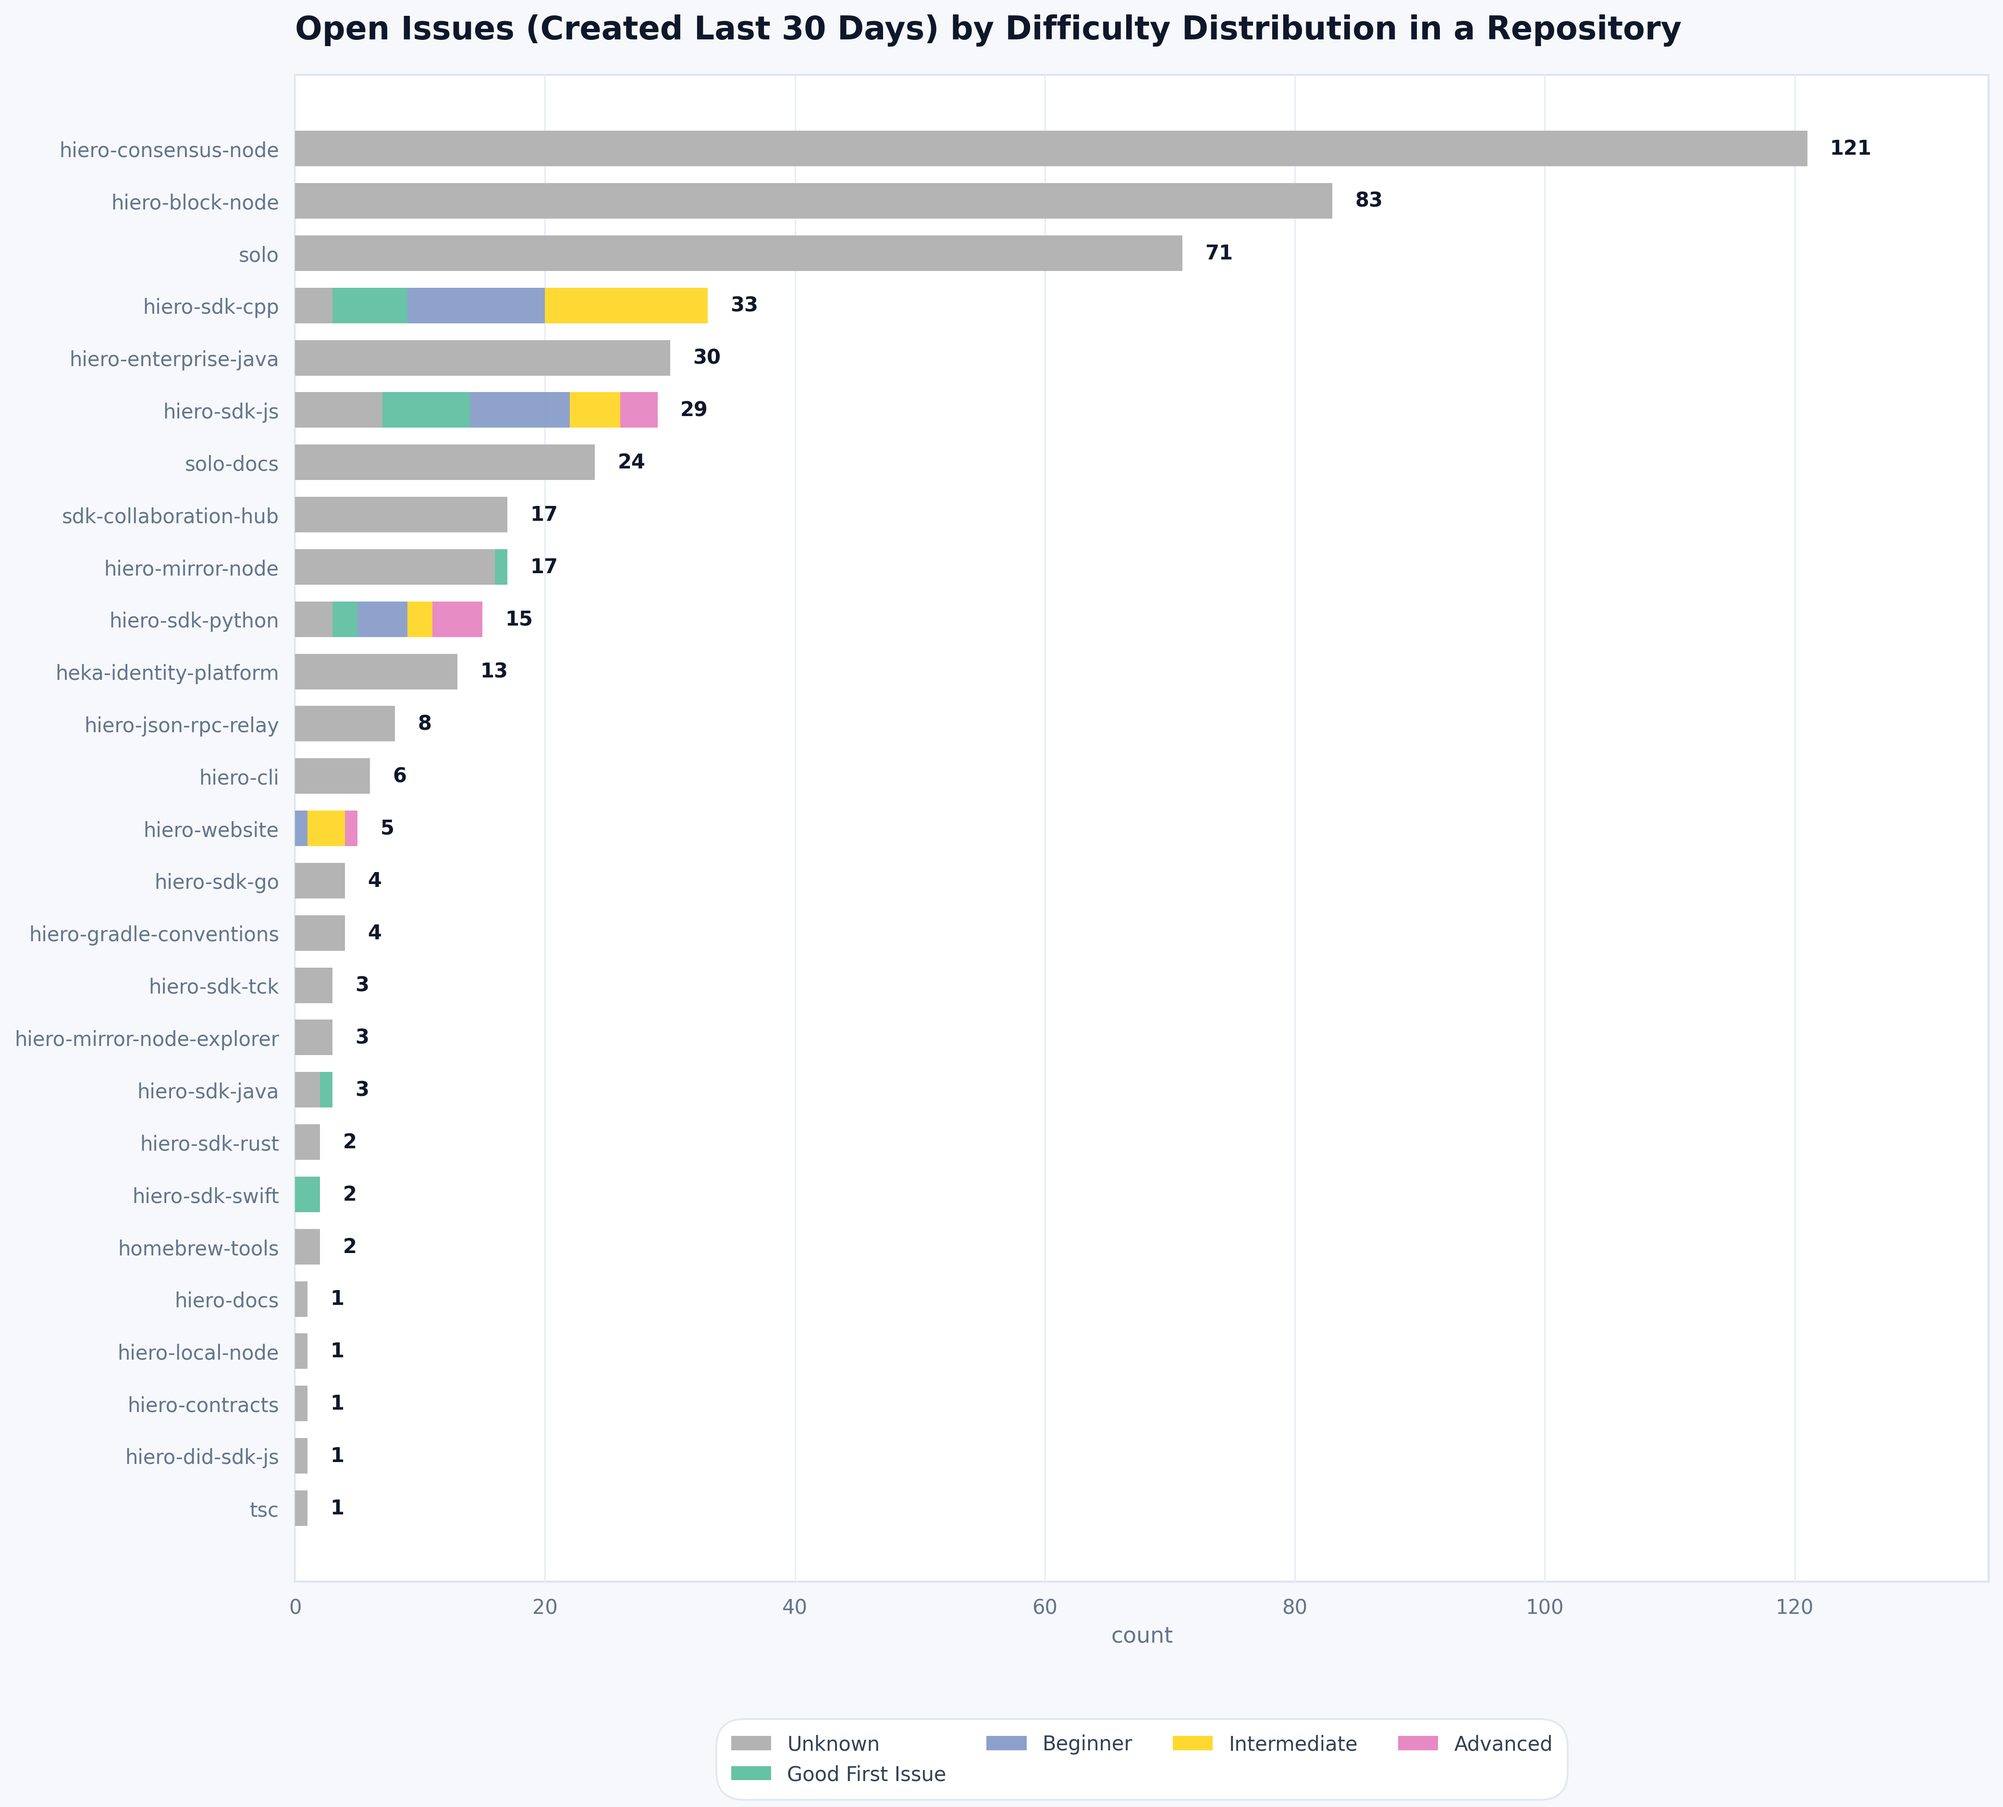
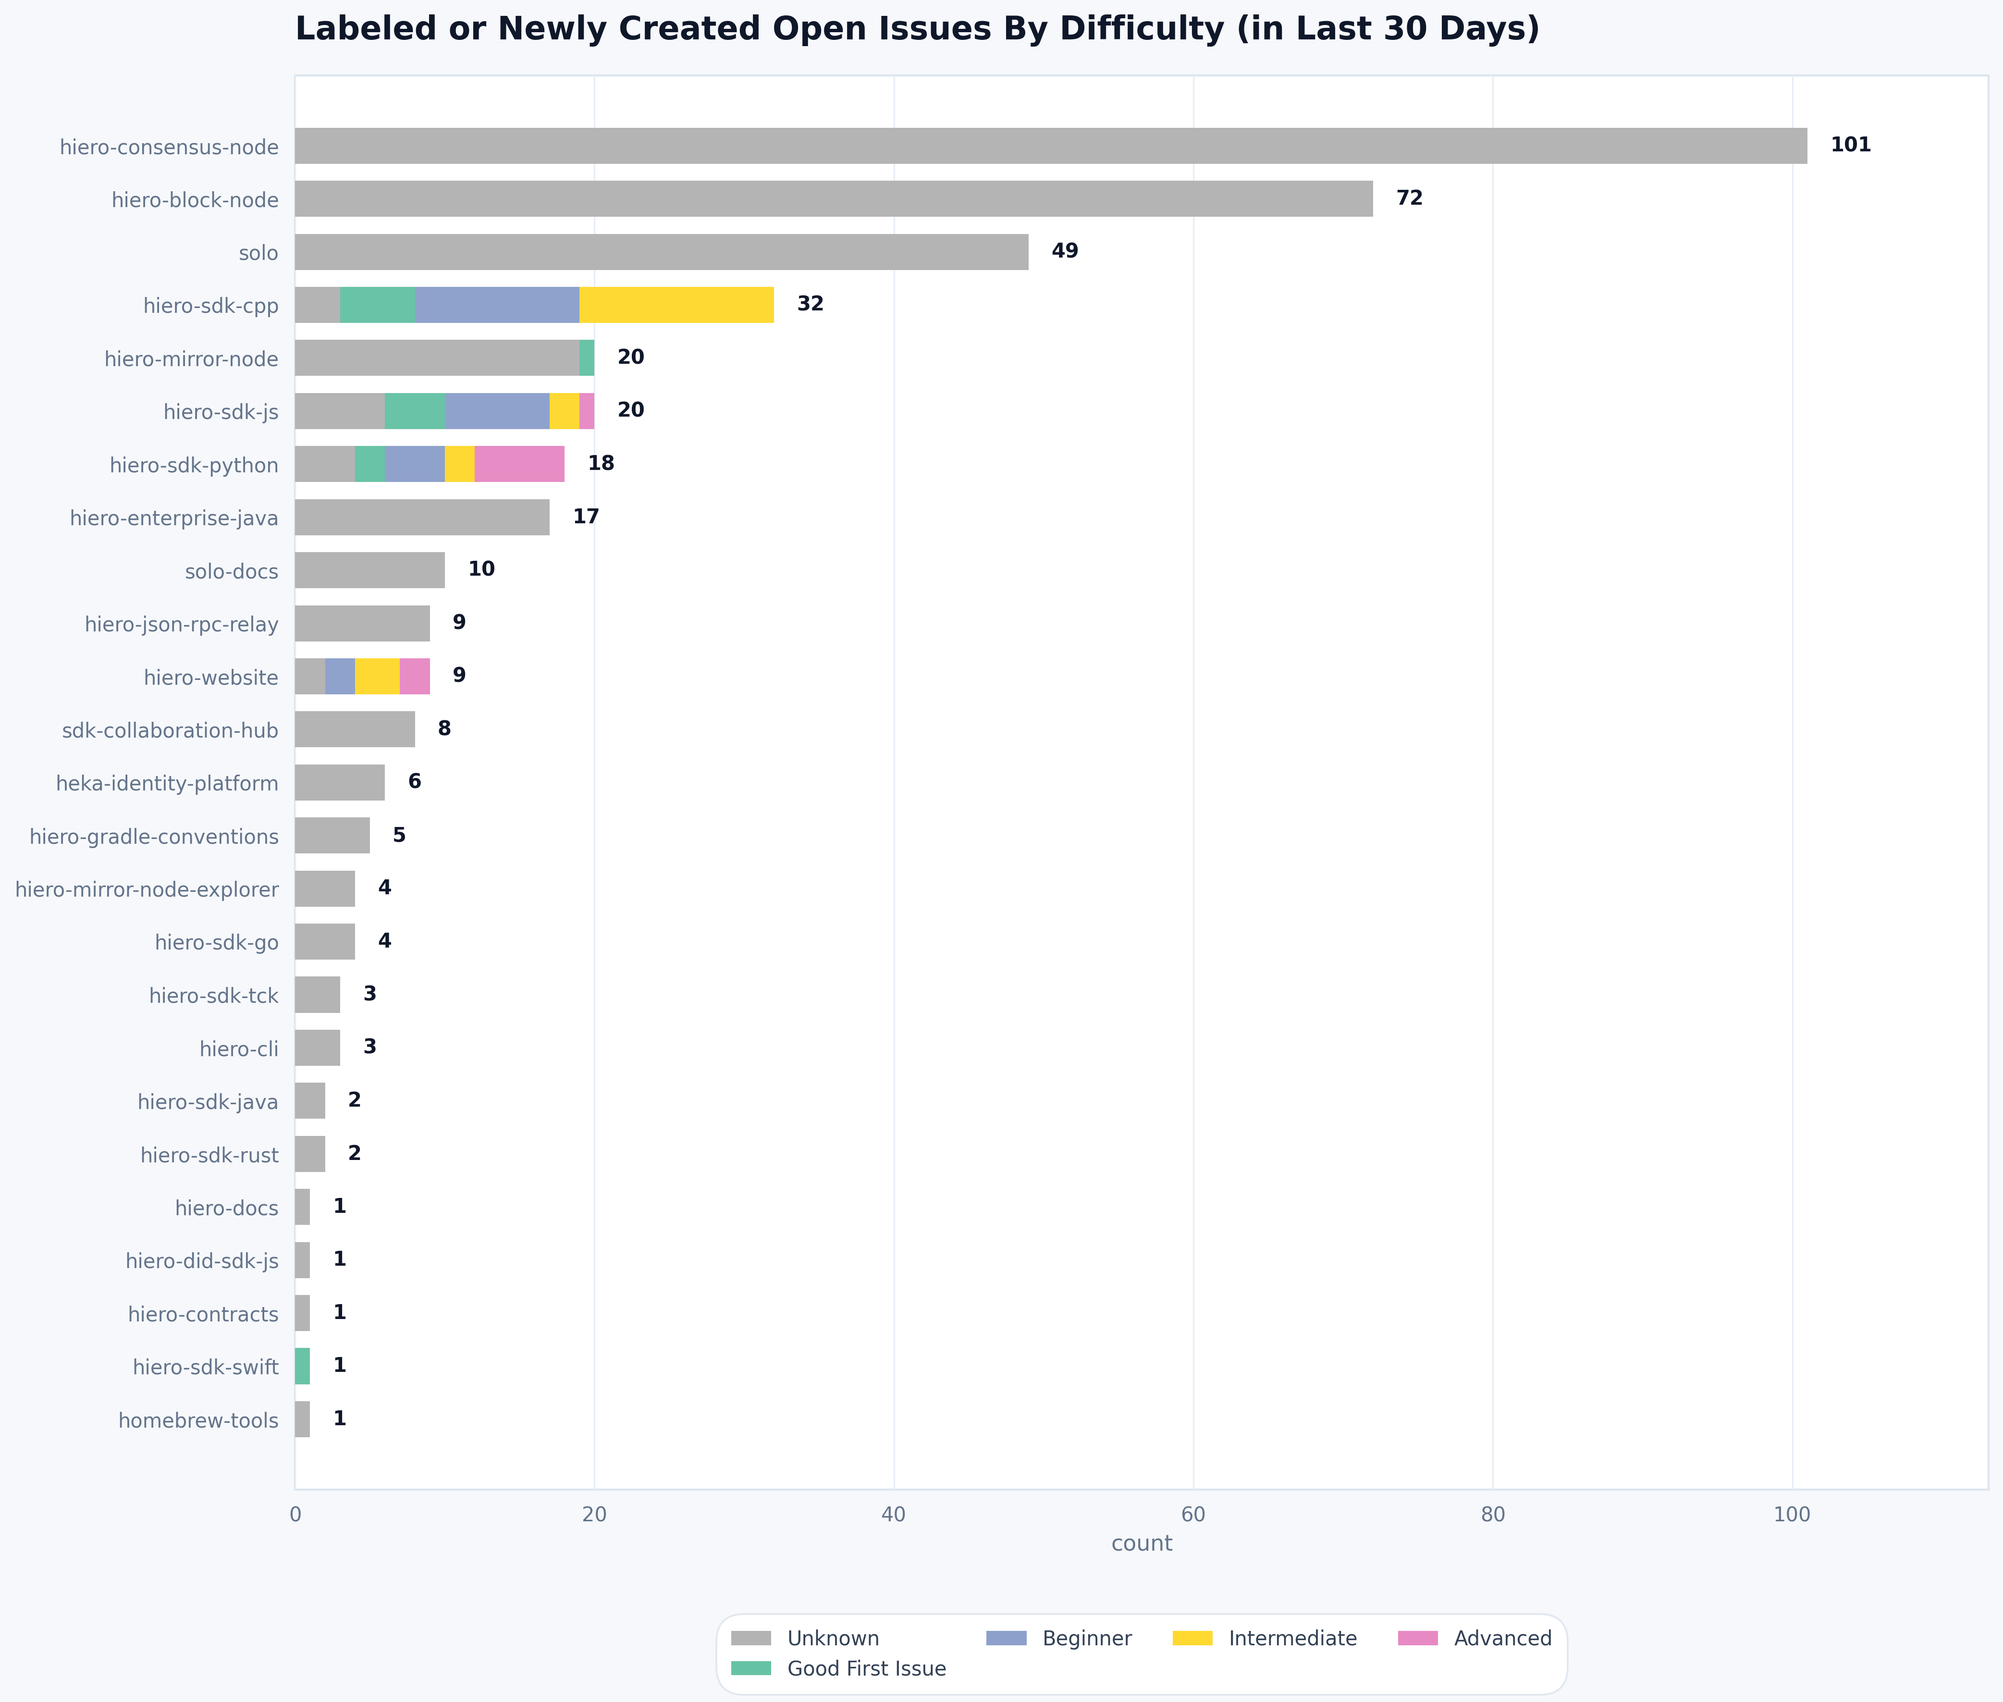
fix: unknown parsing in difficulty runner

Changed region(s): [[0.0, 0.0621, 0.9355, 0.8385], [0.1559, 0.0, 0.8419, 0.0311], [0.3742, 0.9627, 0.4677, 0.9938]]

diff --git a/src/hiero_analytics/run_difficulty_org_for_repo.py b/src/hiero_analytics/run_difficulty_org_for_repo.py
@@ -128,6 +128,31 @@ def _issues_labeled_since(
     return labeled
 
 
+def _issues_unlabeled_created_since(
+    issues: list[IssueRecord],
+    cutoff: datetime,
+    difficulty_specs: tuple[LabelSpec, ...],
+) -> set[tuple[str, int]]:
+    """Return (repo, number) pairs for issues created since cutoff lacking a difficulty label.
+
+    These form the "Unknown" bucket.  Unlike labeled issues, an untriaged
+    issue has no ``labeled`` event to anchor to, so the bucket is anchored to
+    issue *creation* date instead: it captures newly opened issues that have
+    not yet been assigned a difficulty.  This keeps the Unknown category
+    meaningful (and distinct from the labeled buckets, which are anchored to
+    label-application date) rather than collapsing it to zero.
+    """
+    unknown: set[tuple[str, int]] = set()
+    for issue in issues:
+        if issue.created_at < cutoff:
+            continue
+        if any(spec.matches(set(issue.labels)) for spec in difficulty_specs):
+            continue
+        unknown.add((issue.repo, issue.number))
+
+    return unknown
+
+
 def main() -> None:
     """Run the difficulty analytics pipeline for the configured organization."""
     org_data_dir, org_charts_dir = ensure_org_dirs(ORG)
@@ -160,8 +185,20 @@ def main() -> None:
         DIFFICULTY_LEVELS,
     )
 
+    # Identify newly created, still-untriaged issues for the Unknown bucket.
+    # Anchored to creation date because an unlabeled issue has no labeling
+    # event to anchor to.  The two sets are disjoint by construction (an issue
+    # either carries an active difficulty label or it does not).
+    unknown_issues = _issues_unlabeled_created_since(
+        issues,
+        cutoff,
+        DIFFICULTY_LEVELS,
+    )
+
+    included_issues = labeled_issues | unknown_issues
+
     issue_keys = pd.MultiIndex.from_arrays([df["repo"], df["number"]])
-    df = df[(df["state"] == "open") & issue_keys.isin(labeled_issues)].copy()
+    df = df[(df["state"] == "open") & issue_keys.isin(included_issues)].copy()
 
     # Remove org prefix from repo name
     df["repo"] = df["repo"].str.split("/").str[-1]
@@ -185,12 +222,14 @@ def main() -> None:
     pie_variants = [
         (
             difficulty_counts,
-            "Open Issues (Labeled Last 30 Days) by Difficulty Distribution (Including Unknown)",
+            "Open Issues by Difficulty Distribution "
+            "(Labeled or Newly Created in Last 30 Days, Including Unknown)",
             "difficulty_distribution_with_unknown_30_days.png",
         ),
         (
             difficulty_counts[difficulty_counts["difficulty"] != UNKNOWN_DIFFICULTY],
-            "Open Issues (Labeled Last 30 Days) by Difficulty Distribution (Excluding Unknown)",
+            "Open Issues by Difficulty Distribution "
+            "(Labeled in Last 30 Days, Excluding Unknown)",
             "difficulty_distribution_without_unknown_30_days.png",
         ),
     ]
@@ -235,7 +274,7 @@ def main() -> None:
         x_col="repo",
         stack_cols=difficulty_cols,
         labels=difficulty_cols,
-        title="Open Issues (Labeled Last 30 Days) by Difficulty Distribution in a Repository",
+        title="Labeled or Newly Created Open Issues By Difficulty (in Last 30 Days)",
         output_path=org_charts_dir / "difficulty_by_repo_30_days.png",
         colors=DIFFICULTY_COLORS,
         rotate_x=45,

diff --git a/tests/test_run_difficulty_org_for_repo.py b/tests/test_run_difficulty_org_for_repo.py
@@ -1,0 +1,77 @@
+"""Tests for difficulty-bucket selection in the org difficulty pipeline.
+
+These guard the regression where the Unknown bucket collapsed to zero: when
+issues were filtered to *only* those labeled within the window, every surviving
+issue carried a difficulty label, so the "with unknown" and "without unknown"
+charts came out identical.  The Unknown bucket is therefore anchored to issue
+*creation* date instead of label-application date.
+"""
+
+from __future__ import annotations
+
+from datetime import UTC, datetime, timedelta
+
+from hiero_analytics.data_sources.models import IssueRecord
+from hiero_analytics.domain.labels import DIFFICULTY_LEVELS
+from hiero_analytics.run_difficulty_org_for_repo import (
+    _issues_unlabeled_created_since,
+)
+
+CUTOFF = datetime(2026, 5, 4, tzinfo=UTC)
+
+
+def _issue(number: int, *, created_at: datetime, labels: list[str]) -> IssueRecord:
+    return IssueRecord(
+        repo="org/repo",
+        number=number,
+        title=f"issue {number}",
+        state="OPEN",
+        created_at=created_at,
+        closed_at=None,
+        labels=labels,
+    )
+
+
+def test_unknown_bucket_includes_recent_untriaged_issues():
+    """An issue created in-window with no difficulty label is Unknown."""
+    issues = [_issue(1, created_at=CUTOFF + timedelta(days=1), labels=["bug"])]
+
+    unknown = _issues_unlabeled_created_since(issues, CUTOFF, DIFFICULTY_LEVELS)
+
+    assert unknown == {("org/repo", 1)}
+
+
+def test_unknown_bucket_excludes_labeled_issues():
+    """A recent issue that already carries a difficulty label is not Unknown."""
+    issues = [_issue(2, created_at=CUTOFF + timedelta(days=1), labels=["beginner"])]
+
+    unknown = _issues_unlabeled_created_since(issues, CUTOFF, DIFFICULTY_LEVELS)
+
+    assert unknown == set()
+
+
+def test_unknown_bucket_excludes_issues_created_before_cutoff():
+    """An older untriaged issue is anchored to creation date and excluded."""
+    issues = [_issue(3, created_at=CUTOFF - timedelta(days=1), labels=[])]
+
+    unknown = _issues_unlabeled_created_since(issues, CUTOFF, DIFFICULTY_LEVELS)
+
+    assert unknown == set()
+
+
+def test_unknown_bucket_is_disjoint_from_labeled():
+    """No issue is both Unknown (untriaged) and difficulty-labeled at once."""
+    issues = [
+        _issue(1, created_at=CUTOFF + timedelta(days=1), labels=[]),
+        _issue(2, created_at=CUTOFF + timedelta(days=2), labels=["intermediate"]),
+    ]
+
+    unknown = _issues_unlabeled_created_since(issues, CUTOFF, DIFFICULTY_LEVELS)
+    labeled = {
+        (i.repo, i.number)
+        for i in issues
+        if any(s.matches(set(i.labels)) for s in DIFFICULTY_LEVELS)
+    }
+
+    assert unknown.isdisjoint(labeled)
+    assert unknown == {("org/repo", 1)}
